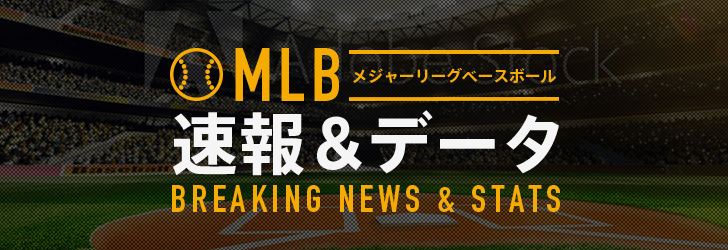
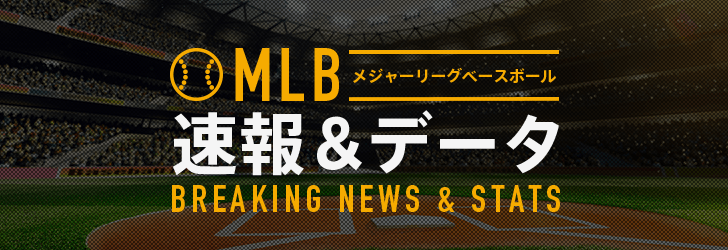
タイトル画像 og画像差し替え #2098

diff --git a/app/routes/stats.router.php b/app/routes/stats.router.php
@@ -5,7 +5,7 @@
 $app->group('/stats', function () use($app) {
 
 
-  // スタットトップ
+  // スタッツトップ
   // ==============================
   $this->map(['GET'], '[/]', function ($request, $response, $args) use ($app) {
 
@@ -61,13 +61,11 @@ $app->group('/stats', function () use($app) {
         'path'               => $args,
       ));
 
-
       return $this->renderer->render($response, 'stats/default.php', $args);
 
     endif;
 
   });
-
 
   // MLB
   // ==============================
@@ -83,7 +81,7 @@ $app->group('/stats', function () use($app) {
         'og_title'           => $title.' | '.$app->model->property('title_short'),
         'og_description'     => 'MLB 速報 &amp; データ見るならスポーツブルで。スポーツブルは、インターネットスポーツメディアです。数十社の良質なスポーツ媒体と連携し、話題のスポーツニュース記事、動画をいち早くお届けします。また、ここでしか見ることの出来ないオリジナル記事や、番組を配信しています。スマートフォンはもちろん、PC、タブレットでもお楽しみいただけます。',
         'og_url'             => $app->model->property('site_url').'stats/mlb/',
-        'og_image'           => $app->model->property('site_url').'assets/images/stats/mlb/og_image.png',
+        'og_image'           => $app->model->property('site_url').'assets/images/stats/mlb/og_image.jpg',
         'template'           => 'mlb/schedule.php',
         'path'               => $args,
       ));
@@ -103,8 +101,8 @@ $app->group('/stats', function () use($app) {
         'title'              => $category['title'],
         'og_title'           => $category['title'].' | '.$app->model->property('title_short'),
         'og_description'     => 'MLB 速報 &amp; データ見るならスポーツブルで。スポーツブルは、インターネットスポーツメディアです。数十社の良質なスポーツ媒体と連携し、話題のスポーツニュース記事、動画をいち早くお届けします。また、ここでしか見ることの出来ないオリジナル記事や、番組を配信しています。スマートフォンはもちろん、PC、タブレットでもお楽しみいただけます。',
-        'og_url'             => $app->model->property('site_url').'stats/mlb/'.$args['category'].'/',
-        'og_image'           => $app->model->property('site_url').'assets/images/stats/mlb/og_image.png',
+        'og_url'             => $app->model->property('site_url').'stats/mlb/',
+        'og_image'           => $app->model->property('site_url').'assets/images/stats/mlb/og_image.jpg',
         'template'           => 'mlb/'.$args['category'].'.php',
         'path'               => $args,
       ));

diff --git a/app/templates/stats/mlb/leaders.php b/app/templates/stats/mlb/leaders.php
@@ -3,7 +3,7 @@
 
     <section class="main-sec">
       <div class="stats__header stats__header--mlb">
-        <h1 class="stats__header__title"><a href="./"><img class="responsive" src="/assets/images/stats/mlb/heading@2x.png" alt="MLB速報&amp;データ" /></a></h1>
+        <h1 class="stats__header__title"><a href="/stats/mlb/"><img class="responsive" src="/assets/images/stats/mlb/heading@2x.png" alt="MLB速報&amp;データ" /></a></h1>
       </div><!-- /.stats__header -->
 
       <div class="stats__banner stats__banner--mlb show-for-large">

diff --git a/app/templates/stats/mlb/playerlist.php b/app/templates/stats/mlb/playerlist.php
@@ -3,7 +3,7 @@
 
     <section class="main-sec">
       <div class="stats__header stats__header--mlb">
-        <h1 class="stats__header__title"><a href="./"><img class="responsive" src="/assets/images/stats/mlb/heading@2x.png" alt="MLB速報&amp;データ" /></a></h1>
+        <h1 class="stats__header__title"><a href="/stats/mlb/"><img class="responsive" src="/assets/images/stats/mlb/heading@2x.png" alt="MLB速報&amp;データ" /></a></h1>
       </div><!-- /.stats__header -->
 
       <div class="stats__banner stats__banner--mlb show-for-large">

diff --git a/app/templates/stats/mlb/schedule.php b/app/templates/stats/mlb/schedule.php
@@ -3,7 +3,7 @@
 
     <section class="main-sec">
       <div class="stats__header stats__header--mlb">
-        <h1 class="stats__header__title"><a href="./"><img class="responsive" src="/assets/images/stats/mlb/heading@2x.png" alt="MLB速報&amp;データ" /></a></h1>
+        <h1 class="stats__header__title"><a href="/stats/mlb/"><img class="responsive" src="/assets/images/stats/mlb/heading@2x.png" alt="MLB速報&amp;データ" /></a></h1>
       </div><!-- /.stats__header -->
 
       <div class="stats__banner stats__banner--mlb show-for-large">

diff --git a/app/templates/stats/mlb/standing.php b/app/templates/stats/mlb/standing.php
@@ -3,7 +3,7 @@
 
     <section class="main-sec">
       <div class="stats__header stats__header--mlb">
-        <h1 class="stats__header__title"><a href="./"><img class="responsive" src="/assets/images/stats/mlb/heading@2x.png" alt="MLB速報&amp;データ" /></a></h1>
+        <h1 class="stats__header__title"><a href="/stats/mlb/"><img class="responsive" src="/assets/images/stats/mlb/heading@2x.png" alt="MLB速報&amp;データ" /></a></h1>
       </div><!-- /.stats__header -->
 
       <div class="stats__banner stats__banner--mlb show-for-large">
